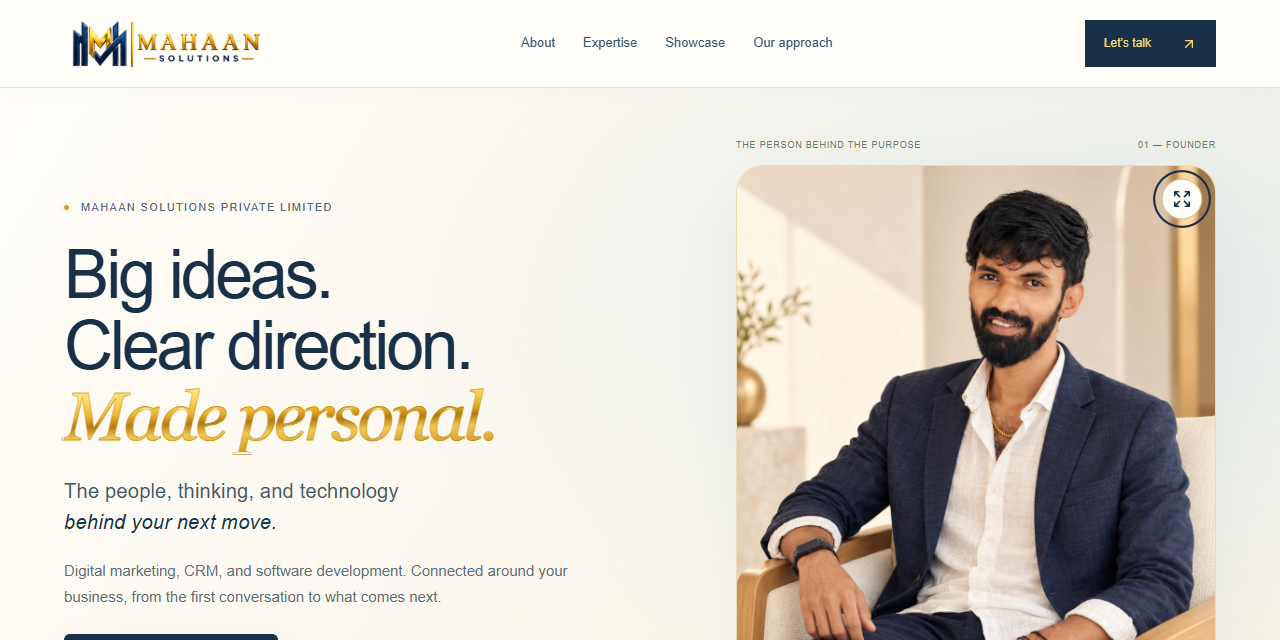
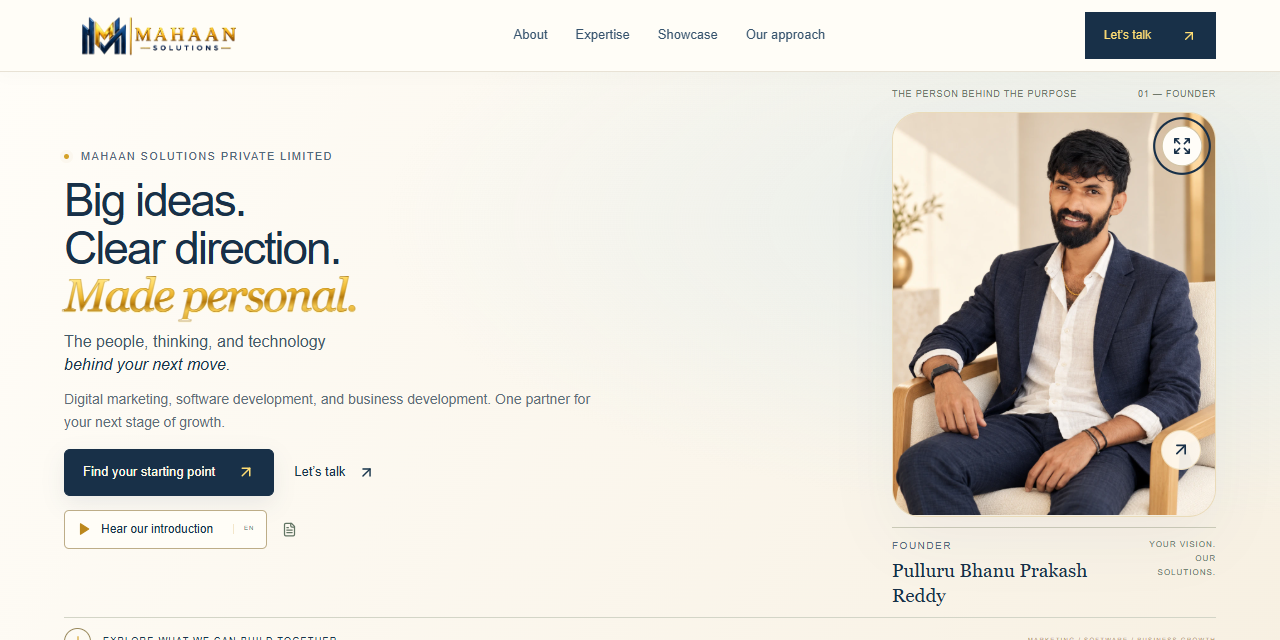
Add business development service and fit homepage to short laptop screens

diff --git a/src/components/ServicesExperience.tsx b/src/components/ServicesExperience.tsx
@@ -10,4 +10,4 @@ export default function ServicesExperience(){const [category,setCategory]=useSta
 const voice=useFounderVoice();useEffect(()=>{voice.selectScene(active as FounderScene)},[active,voice.selectScene]);
 useEffect(()=>{let frame=0;const update=()=>{frame=0;const cards=Array.from(root.current?.querySelectorAll<HTMLElement>('.service-card')||[]);const header=document.querySelector('.navigation')?.getBoundingClientRect().height||0;const focus=header+(innerHeight-header)*.5;const nearest=cards.map(card=>{const r=card.getBoundingClientRect();return{card,distance:r.top<=focus&&r.bottom>=focus?0:Math.min(Math.abs(r.top-focus),Math.abs(r.bottom-focus))}}).sort((a,b)=>a.distance-b.distance)[0];const id=nearest?.card.dataset.service;if(id)setActive(id)};const schedule=()=>{if(!frame)frame=requestAnimationFrame(update)};update();window.addEventListener('scroll',schedule,{passive:true});window.addEventListener('resize',schedule);return()=>{cancelAnimationFrame(frame);window.removeEventListener('scroll',schedule);window.removeEventListener('resize',schedule)}},[category]);
 function choose(slug:string){setActive(slug);document.getElementById(`chapter-${slug}`)?.scrollIntoView({behavior:matchMedia('(prefers-reduced-motion:reduce)').matches?'instant':'smooth',block:'center'})}
-return <section className="expertise services-experience section-pad" id="expertise" ref={root}><div className="section-label"><span>02 / OUR SERVICES</span><span>DESIGNED AROUND YOUR BUSINESS</span></div><div className="section-heading"><h2>Three disciplines.<br/><em>Connected by design.</em></h2><p>Get discovered. Connect your relationships.<br/>Build what comes next.</p></div><div className="service-filters" role="group" aria-label="Filter expertise">{['All expertise','Build','Grow'].map(c=><button key={c} aria-pressed={c===category} className={c===category?'active':''} onClick={()=>{setCategory(c);const first=services.find(s=>c==='All expertise'||s.category===c);if(first)setActive(first.slug)}}>{c}{c==='All expertise'&&<span>03</span>}</button>)}</div><div className="services-story-layout"><aside className="solution-console" data-motion={paused?'paused':'running'}><div className="solution-console-heading"><span><i/> YOUR PROJECT, EXPLORED</span><button aria-label={paused?'Resume preview motion':'Pause preview motion'} aria-pressed={paused} onClick={()=>setPaused(!paused)}>{paused?<Play size={13}/>:<Pause size={13}/>}</button></div><div className="solution-stage" onPointerMove={e=>{if(paused||matchMedia('(prefers-reduced-motion:reduce)').matches)return;const r=e.currentTarget.getBoundingClientRect();e.currentTarget.style.setProperty('--tilt-x',`${(e.clientX-r.left-r.width/2)/r.width*10}deg`);e.currentTarget.style.setProperty('--tilt-y',`${-(e.clientY-r.top-r.height/2)/r.height*8}deg`)}} onPointerLeave={e=>{e.currentTarget.style.setProperty('--tilt-x','0deg');e.currentTarget.style.setProperty('--tilt-y','0deg')}}><ServiceJourney key={active} service={active}/></div><div className="solution-console-caption"><span>{current.number} / EXPLORE THE POSSIBILITIES</span><h3>{current.title}</h3><p>{current.short}</p><NarrationButton scene={active as FounderScene} label="Hear the service overview"/></div><div className="solution-index" aria-label="Explore a service">{filtered.map(s=><button key={s.slug} className={active===s.slug?'is-active':''} aria-pressed={active===s.slug} onClick={()=>choose(s.slug)}><span>{s.number}</span><strong>{s.slug==='software-development'?'Software':s.slug==='digital-marketing'?'Marketing':'CRM'}</strong><ArrowUpRight size={13}/></button>)}</div></aside><div className="service-grid service-story-cards">{filtered.map(s=><article key={s.slug} id={`chapter-${s.slug}`} data-service={s.slug} className={`service-card business-service-card ${active===s.slug?'chapter-active':''}`}><div className="service-card-top"><span>0{s.number.replace('0','')} / {s.category.toUpperCase()}</span><ArrowUpRight size={23}/></div><Link className="service-main" href={`/services/${s.slug}`}><h3>{s.title}</h3><p>{s.description}</p></Link><div className="business-problem"><span>THE OPPORTUNITY</span><p>{s.problem}</p></div><ul className="service-deliverables">{s.deliverables.map(d=><li key={d}><Check size={13}/>{d}</li>)}</ul><div className="service-card-bottom"><Link href={`/services/${s.slug}`}>Explore service <ArrowRight size={15}/></Link><a className="chapter-cta" href={`/?service=${s.slug}#contact`} aria-label={`Request ${s.title}`}>Discuss your project <ArrowUpRight size={15}/></a></div></article>)}</div></div><p className="section-note">Visuals are illustrative explorations. Project scope, deliverables, and timelines are agreed around your requirements.</p></section>}
+return <section className="expertise services-experience section-pad" id="expertise" ref={root}><div className="section-label"><span>02 / OUR SERVICES</span><span>DESIGNED AROUND YOUR BUSINESS</span></div><div className="section-heading"><h2>Three disciplines.<br/><em>Connected by design.</em></h2><p>Get discovered. Find your next opportunity.<br/>Build what comes next.</p></div><div className="service-filters" role="group" aria-label="Filter expertise">{['All expertise','Build','Grow'].map(c=><button key={c} aria-pressed={c===category} className={c===category?'active':''} onClick={()=>{setCategory(c);const first=services.find(s=>c==='All expertise'||s.category===c);if(first)setActive(first.slug)}}>{c}{c==='All expertise'&&<span>03</span>}</button>)}</div><div className="services-story-layout"><aside className="solution-console" data-motion={paused?'paused':'running'}><div className="solution-console-heading"><span><i/> YOUR PROJECT, EXPLORED</span><button aria-label={paused?'Resume preview motion':'Pause preview motion'} aria-pressed={paused} onClick={()=>setPaused(!paused)}>{paused?<Play size={13}/>:<Pause size={13}/>}</button></div><div className="solution-stage" onPointerMove={e=>{if(paused||matchMedia('(prefers-reduced-motion:reduce)').matches)return;const r=e.currentTarget.getBoundingClientRect();e.currentTarget.style.setProperty('--tilt-x',`${(e.clientX-r.left-r.width/2)/r.width*10}deg`);e.currentTarget.style.setProperty('--tilt-y',`${-(e.clientY-r.top-r.height/2)/r.height*8}deg`)}} onPointerLeave={e=>{e.currentTarget.style.setProperty('--tilt-x','0deg');e.currentTarget.style.setProperty('--tilt-y','0deg')}}><ServiceJourney key={active} service={active}/></div><div className="solution-console-caption"><span>{current.number} / EXPLORE THE POSSIBILITIES</span><h3>{current.title}</h3><p>{current.short}</p><NarrationButton scene={active as FounderScene} label="Hear the service overview"/></div><div className="solution-index" aria-label="Explore a service">{filtered.map(s=><button key={s.slug} className={active===s.slug?'is-active':''} aria-pressed={active===s.slug} onClick={()=>choose(s.slug)}><span>{s.number}</span><strong>{s.slug==='software-development'?'Software':s.slug==='digital-marketing'?'Marketing':'Business'}</strong><ArrowUpRight size={13}/></button>)}</div></aside><div className="service-grid service-story-cards">{filtered.map(s=><article key={s.slug} id={`chapter-${s.slug}`} data-service={s.slug} className={`service-card business-service-card ${active===s.slug?'chapter-active':''}`}><div className="service-card-top"><span>0{s.number.replace('0','')} / {s.category.toUpperCase()}</span><ArrowUpRight size={23}/></div><Link className="service-main" href={`/services/${s.slug}`}><h3>{s.title}</h3><p>{s.description}</p></Link><div className="business-problem"><span>THE OPPORTUNITY</span><p>{s.problem}</p></div><ul className="service-deliverables">{s.deliverables.map(d=><li key={d}><Check size={13}/>{d}</li>)}</ul><div className="service-card-bottom"><Link href={`/services/${s.slug}`}>Explore service <ArrowRight size={15}/></Link><a className="chapter-cta" href={`/?service=${s.slug}#contact`} aria-label={`Request ${s.title}`}>Discuss your project <ArrowUpRight size={15}/></a></div></article>)}</div></div><p className="section-note">Visuals are illustrative explorations. Project scope, deliverables, and timelines are agreed around your requirements.</p></section>}

diff --git a/src/styles/responsive-layout.css b/src/styles/responsive-layout.css
@@ -6,3 +6,33 @@
 @media(max-width:760px){:root{--page-gutter:20px;--nav-height:78px}.navigation{height:78px;padding-inline:20px;gap:12px}.brand-logo{width:170px;height:60px}.editorial-hero{display:flex;flex-direction:column;padding:28px 20px 24px;gap:28px}.editorial-hero h1{font-size:clamp(40px,11.5vw,62px);line-height:1.06;letter-spacing:-.045em;margin:18px 0}.home-hero .eyebrow{font-size:10px;letter-spacing:.9px}.home-hero-statement{font-size:18px;line-height:1.5}.home-hero-description{font-size:15px;margin:16px 0 22px}.home-hero-actions{gap:14px;flex-wrap:wrap}.home-hero-actions .button{font-size:13px;gap:16px}.hero-founder-control{margin-top:20px}.hero-founder-control>span{font-size:10px}.founder-editorial{width:100%;max-width:440px;align-self:center;justify-self:center}.portrait-heading{font-size:8px}.portrait-credit strong{font-size:21px}.portrait-credit>span{display:none}.portrait-credit small{font-size:9px}.editorial-hero .home-hero-baseline{width:100%;padding-top:16px;font-size:9px}.editorial-hero .home-hero-baseline>span{display:none}.section-pad,.faq-section{padding:42px 20px;--section-inset:42px}.section-label{font-size:9px;letter-spacing:.8px;margin-bottom:24px}.section-label>span:last-child{font-size:8px}.section-heading h2,.company-intro h2,.principles-heading h2,.faq-section h2{font-size:clamp(34px,9vw,44px);letter-spacing:-1.5px}.section-heading p{font-size:14px}.company-intro-grid{grid-template-columns:1fr;gap:24px}.company-promise strong{font-size:56px}.company-facts strong{font-size:14px}.company-facts span{font-size:9px}.journey-explorer{display:block;padding:22px 18px}.journey-canvas{height:175px}.journey-title h4{font-size:25px}.journey-route button{font-size:11px}.journey-artifact{font-size:12px;max-width:100%;text-align:center}.journey-detail{min-height:105px}.journey-next{font-size:13px;min-height:44px}.solution-console-heading>span{font-size:9px;letter-spacing:1px}.solution-console-heading button{min-height:32px;min-width:32px}.solution-console-caption{padding:20px 18px}.solution-console-caption h3{font-size:24px}.solution-console-caption p{display:block;font-size:14px}.solution-index>button{min-height:44px;padding:10px 6px}.solution-index>button>strong{font-size:11px}.business-service-card{padding:24px 20px}.business-service-card h3{font-size:28px;line-height:1.2}.business-service-card .service-deliverables li{font-size:12px}.service-card-top>span{font-size:9px}.project-info h3{font-size:20px}.project-info>div>span{font-size:10px}.process-tabs strong{font-size:15px}.process-tabs button>span{font-size:11px}.process-panel h3{font-size:25px}.process-panel p{font-size:14px}.principle-grid{grid-template-columns:1fr}.principle-grid h3{font-size:25px}.principle-grid p{font-size:14px}.faq-item button{font-size:16px;gap:15px}.faq-item p{font-size:14px}.contact-layout{grid-template-columns:1fr;gap:28px}.contact h2{font-size:clamp(40px,11vw,58px)}.contact-arrow{display:none}.contact-copy>p{font-size:14px}.direct-contact>a{font-size:13px}.enquiry-form{padding:22px 18px}.form-grid{grid-template-columns:1fr;gap:0}.form-field input,.form-field select,.form-field textarea{font-size:16px}.form-field{margin-bottom:20px}.company-finale{padding:42px 20px 0}.finale-orb{position:relative;left:auto;top:auto;width:160px;height:160px;margin:0 auto 50px}.finale-orb svg{width:60px;height:60px}.company-finale-copy{margin-left:0}.company-finale h2{font-size:clamp(39px,10vw,58px)}.company-finale-copy>p{font-size:14px}.company-finale-actions{gap:20px}.company-finale-actions>a:last-child{font-size:14px}.company-finale-label{font-size:9px;margin-top:36px;gap:16px}footer{padding:32px 20px 90px}.footer-bottom{font-size:10px}.footer-top p{font-size:20px}.voice-tour-dock{right:84px;left:12px;max-width:none;gap:8px}.voice-tour-dock strong{font-size:10px}.voice-tour-dock small{font-size:8px}.voice-tour-dock button{min-width:28px}}
 @media(max-width:420px){.nav-cta{display:none}.brand-logo{width:165px}.navigation{justify-content:space-between}.home-hero-actions{align-items:stretch;gap:10px 18px}.home-secondary-cta{font-size:13px}.home-hero-actions .button{gap:14px;padding-inline:16px}.portrait-credit strong{font-size:19px}.narration-button{gap:7px}.voice-language{margin-left:4px;padding-left:7px}.company-finale h2{font-size:clamp(35px,10vw,43px)}}
 @media(max-width:1024px){.company-promise strong{font-size:clamp(40px,5.5vw,56px)}}@media(max-width:760px){.company-promise strong{font-size:clamp(36px,10vw,56px);letter-spacing:-1px}}
+
+/* Keep introduction and actions visible on short laptop displays. */
+@media(min-width:1025px) and (max-height:850px){
+  :root{--nav-height:72px}
+  .navigation{height:72px}
+  .brand-logo{height:58px;width:190px}
+  .editorial-hero{padding-top:20px;padding-bottom:16px;row-gap:12px;column-gap:40px;align-items:center}
+  .editorial-hero h1{font-size:clamp(46px,4.2vw,60px);line-height:1.03;margin:14px 0}
+  .home-hero-statement{font-size:17px;line-height:1.4}
+  .home-hero-description{font-size:14px;line-height:1.6;margin:12px 0 16px;max-width:530px}
+  .home-hero-actions .button{min-height:44px;padding:12px 18px}
+  .hero-founder-control{margin-top:14px}
+  .hero-founder-control .narration-button{padding:9px 12px}
+  .founder-editorial{max-width:clamp(280px,calc((100svh - 235px)*.8),400px)}
+  .portrait-heading{margin-bottom:10px}
+  .portrait-credit{margin-top:10px;padding-top:10px}
+  .portrait-credit strong{font-size:19px}
+  .editorial-hero .home-hero-baseline{padding-top:10px}
+}
+@media(min-width:1025px) and (max-height:650px){
+  .editorial-hero{padding-top:16px;padding-bottom:12px;row-gap:8px}
+  .editorial-hero h1{font-size:46px;margin:12px 0}
+  .home-hero-statement{font-size:16px}
+  .hero-founder-control>span{display:none}
+}
+@media(min-width:1025px) and (max-height:850px){
+  .founder-editorial{justify-self:center}
+  .portrait-credit>span{display:none}
+  .portrait-credit strong{font-size:17px}
+}

diff --git a/src/components/CompanySections.tsx b/src/components/CompanySections.tsx
@@ -3,6 +3,6 @@
 
 import {ArrowUpRight,ArrowRight,Target,Layers3,Compass,MessageCircle} from 'lucide-react';
 
-export function CompanyIntroduction(){return <section className="company-intro section-pad section-light" id="about"><div className="section-label"><span>01 / THE COMPANY</span><span>ONE VISION. CONNECTED POSSIBILITIES.</span></div><div className="company-intro-grid"><div><span className="eyebrow">MAHAAN SOLUTIONS PRIVATE LIMITED</span><h2>Built around<br/><em>your next move.</em></h2><p className="company-lead">A digital presence. A better system.<br/>A new product. Start with your vision.</p><p className="company-description">Mahaan Solutions brings digital marketing, CRM development and maintenance, and software development into one conversation. Tell us where you want to go. We’ll explore the right scope with you.</p><a href="#expertise" className="underlined-link">Discover our services <ArrowUpRight size={19}/></a></div><div className="company-system"><div className="company-promise"><span>YOUR VISION.</span><strong>OUR<br/>SOLUTIONS.</strong><p>One conversation. Three connected disciplines.</p></div><div className="company-facts"><div><span>OUR FOUNDER</span><strong>Pulluru Bhanu Prakash Reddy</strong></div><div><span>OUR FOCUS</span><strong>Marketing · CRM · Software</strong></div></div></div></div></section>}
+export function CompanyIntroduction(){return <section className="company-intro section-pad section-light" id="about"><div className="section-label"><span>01 / THE COMPANY</span><span>ONE VISION. CONNECTED POSSIBILITIES.</span></div><div className="company-intro-grid"><div><span className="eyebrow">MAHAAN SOLUTIONS PRIVATE LIMITED</span><h2>Built around<br/><em>your next move.</em></h2><p className="company-lead">A digital presence. A better system.<br/>A new product. Start with your vision.</p><p className="company-description">Mahaan Solutions brings digital marketing, software development, and business development into one conversation. Tell us where you want to go. We’ll explore the right scope with you.</p><a href="#expertise" className="underlined-link">Discover our services <ArrowUpRight size={19}/></a></div><div className="company-system"><div className="company-promise"><span>YOUR VISION.</span><strong>OUR<br/>SOLUTIONS.</strong><p>One conversation. Three connected disciplines.</p></div><div className="company-facts"><div><span>OUR FOUNDER</span><strong>Pulluru Bhanu Prakash Reddy</strong></div><div><span>OUR FOCUS</span><strong>Marketing · Software · Business growth</strong></div></div></div></div></section>}
 export function CompanyPrinciples(){const principles=[{Icon:Compass,title:'Start with clarity.',text:'Your audience, your priorities, and the problem worth solving come first.'},{Icon:Layers3,title:'Connect the parts.',text:'Think about the brand, the experience, and the systems behind it together.'},{Icon:Target,title:'Make the next step clear.',text:'Agree a focused scope, practical deliverables, and a considered way forward.'}];return <section className="company-principles section-pad" id="founder"><div className="section-label"><span>05 / THE MAHAAN PERSPECTIVE</span><span>PURPOSE IN EVERY DETAIL</span></div><div className="principles-heading"><h2>Good thinking.<br/><em>Better possibilities.</em></h2><div className="company-identity-block"><span>LED BY</span><strong>Pulluru Bhanu Prakash Reddy</strong><small>Founder · Mahaan Solutions Private Limited</small></div></div><div className="principle-grid">{principles.map(({Icon,title,text},i)=><article key={title}><div><Icon size={29} strokeWidth={1}/><span>0{i+1}</span></div><h3>{title}</h3><p>{text}</p></article>)}</div><p className="section-note">A proposed project approach, adapted to your needs and agreed scope.</p></section>}
 export function CompanyClosing(){return <section className="company-finale" id="founder-finale"><a className="finale-orb" href="#contact" aria-label="Start a conversation"><ArrowUpRight size={100} strokeWidth={.7}/><span>LET’S BEGIN</span></a><div className="company-finale-copy"><span className="eyebrow">THE NEXT MOVE IS YOURS</span><h2>Your idea.<br/><em>Our next</em><br/>conversation.</h2><p>Your vision deserves a conversation.<br/>Let’s start with what you have in mind.</p><div className="company-finale-actions"><a className="button button-gold" href="#contact">Start your project <ArrowUpRight size={18}/></a><a href="https://wa.me/919959929328" target="_blank" rel="noopener noreferrer"><MessageCircle size={18}/> Talk on WhatsApp <ArrowRight size={16}/></a></div></div><div className="company-finale-label"><span>MAHAAN SOLUTIONS PRIVATE LIMITED</span><span>YOUR VISION. OUR SOLUTIONS.</span></div></section>}

diff --git a/src/components/HomeHero.tsx b/src/components/HomeHero.tsx
@@ -2,4 +2,4 @@
 import {ArrowUpRight,ArrowDown} from 'lucide-react';
 import {NarrationButton} from './FounderVoice';
 import PortraitViewer from './PortraitViewer';
-export default function HomeHero(){return <section className="hero home-hero editorial-hero" id="home"><div className="home-hero-copy"><div className="eyebrow"><span className="live-dot"/> MAHAAN SOLUTIONS PRIVATE LIMITED</div><h1>Big ideas.<br/>Clear direction.<br/><span>Made personal.</span></h1><p className="home-hero-statement">The people, thinking, and technology<br/><em>behind your next move.</em></p><p className="home-hero-description">Digital marketing, CRM, and software development. Connected around your business, from the first conversation to what comes next.</p><div className="home-hero-actions"><a className="button button-gold" href="#expertise">Find your starting point <ArrowUpRight size={18}/></a><a href="#contact" className="home-secondary-cta">Let’s talk <ArrowUpRight size={17}/></a></div><div className="hero-founder-control"><NarrationButton scene="intro" label="Hear our introduction"/><span>A personal introduction to Mahaan Solutions</span></div></div><div className="founder-editorial"><div className="portrait-heading"><span>THE PERSON BEHIND THE PURPOSE</span><span>01 — FOUNDER</span></div><div className="portrait-gallery studio-gallery"><PortraitViewer/><img src="/images/founder/studio-portrait-v2.webp" srcSet="/images/founder/studio-portrait-v2-small.webp 640w, /images/founder/studio-portrait-v2.webp 1024w" sizes="(max-width:760px) 88vw, 42vw" alt="AI-assisted editorial portrait of Pulluru Bhanu Prakash Reddy, founder of Mahaan Solutions" fetchPriority="high"/><a className="portrait-connect" href="#contact" aria-label="Talk to the founder"><ArrowUpRight size={23}/></a></div><div className="portrait-credit"><div><small>FOUNDER</small><strong>Pulluru Bhanu Prakash Reddy</strong></div><span>YOUR VISION.<br/>OUR SOLUTIONS.</span></div></div><div className="home-hero-baseline"><a href="#expertise"><span><ArrowDown size={14}/></span> EXPLORE WHAT WE CAN BUILD TOGETHER</a><span>MARKETING / CRM / SOFTWARE</span></div></section>}
+export default function HomeHero(){return <section className="hero home-hero editorial-hero" id="home"><div className="home-hero-copy"><div className="eyebrow"><span className="live-dot"/> MAHAAN SOLUTIONS PRIVATE LIMITED</div><h1>Big ideas.<br/>Clear direction.<br/><span>Made personal.</span></h1><p className="home-hero-statement">The people, thinking, and technology<br/><em>behind your next move.</em></p><p className="home-hero-description">Digital marketing, software development, and business development. One partner for your next stage of growth.</p><div className="home-hero-actions"><a className="button button-gold" href="#expertise">Find your starting point <ArrowUpRight size={18}/></a><a href="#contact" className="home-secondary-cta">Let’s talk <ArrowUpRight size={17}/></a></div><div className="hero-founder-control"><NarrationButton scene="intro" label="Hear our introduction"/><span>A personal introduction to Mahaan Solutions</span></div></div><div className="founder-editorial"><div className="portrait-heading"><span>THE PERSON BEHIND THE PURPOSE</span><span>01 — FOUNDER</span></div><div className="portrait-gallery studio-gallery"><PortraitViewer/><img src="/images/founder/studio-portrait-v2.webp" srcSet="/images/founder/studio-portrait-v2-small.webp 640w, /images/founder/studio-portrait-v2.webp 1024w" sizes="(max-width:760px) 88vw, 42vw" alt="AI-assisted editorial portrait of Pulluru Bhanu Prakash Reddy, founder of Mahaan Solutions" fetchPriority="high"/><a className="portrait-connect" href="#contact" aria-label="Talk to the founder"><ArrowUpRight size={23}/></a></div><div className="portrait-credit"><div><small>FOUNDER</small><strong>Pulluru Bhanu Prakash Reddy</strong></div><span>YOUR VISION.<br/>OUR SOLUTIONS.</span></div></div><div className="home-hero-baseline"><a href="#expertise"><span><ArrowDown size={14}/></span> EXPLORE WHAT WE CAN BUILD TOGETHER</a><span>MARKETING / SOFTWARE / BUSINESS GROWTH</span></div></section>}

diff --git a/src/components/ServiceJourney.tsx b/src/components/ServiceJourney.tsx
@@ -2,9 +2,9 @@
 import {useState} from 'react';
 import {ArrowRight,ArrowUpRight,Check,Compass,Layers3,Send} from 'lucide-react';
 const journeys:Record<string,{label:string;stages:string[];details:string[];artifact:string[]}>= {
- 'software-development':{label:'From idea to experience',stages:['Define','Build','Launch'],details:['Clarify the problem, the users, and the product you need.','Connect the interface, logic, and integrations around your requirements.','Review, test, and prepare an agreed handover.'],artifact:['A focused product brief','A working product experience','A considered launch plan']},
+ 'software-development':{label:'From idea to experience',stages:['Define','Build','Launch'],details:['Clarify the problem, the users, and the product you need.','Build the application or CRM, connecting interfaces, customer data, and agreed workflows.','Review, test, and prepare a handover with an agreed software or CRM maintenance scope.'],artifact:['A focused product brief','A working product experience','A considered launch plan']},
  'digital-marketing':{label:'From attention to connection',stages:['Discover','Create','Connect'],details:['Understand your audience and where your business fits.','Shape the message, content, and campaign direction.','Bring the agreed campaign to your audience and review what follows.'],artifact:['An audience & channel direction','A coherent campaign concept','A connected digital presence']},
- 'crm-development-and-maintenance':{label:'From contacts to clarity',stages:['Understand','Connect','Support'],details:['Map your team’s customer journey and current working process.','Organize customer information and connect agreed workflows.','Maintain the system around the team and its changing needs.'],artifact:['A clear customer journey','A shared relationship system','An agreed maintenance scope']}
+ 'business-development':{label:'From opportunity to action',stages:['Explore','Position','Grow'],details:['Map target customers, market gaps, and the opportunities worth pursuing.','Refine your offer, outreach message, and lead qualification process.','Plan sales follow-ups, potential partnerships, and a regular review of agreed growth indicators.'],artifact:['A focused opportunity map','An offer & outreach plan','A practical growth roadmap']}
 };
 const icons=[Compass,Layers3,Send];
 export default function ServiceJourney({service}:{service:string}){const [step,setStep]=useState(0);const j=journeys[service]||journeys['software-development'];const Icon=icons[step];return <div className="journey-explorer" key={service}><div className="journey-title"><small>EXPLORE THE APPROACH</small><h4>{j.label}</h4></div><div className="journey-route" aria-label="Workflow stages">{j.stages.map((s,i)=><button key={s} className={i===step?'selected':''} aria-pressed={i===step} onClick={()=>setStep(i)}><span>{i<step?<Check size={14}/>:String(i+1).padStart(2,'0')}</span>{s}</button>)}</div><div className="journey-canvas"><div className="journey-rings" aria-hidden="true"><i/><i/></div><div className="journey-token" key={`${service}-${step}`}><Icon size={42} strokeWidth={1}/></div><span className="journey-artifact" key={j.artifact[step]}>{j.artifact[step]}</span></div><div className="journey-detail" aria-live="polite"><span>0{step+1} / {j.stages[step].toUpperCase()}</span><p>{j.details[step]}</p></div><button className="journey-next" onClick={()=>setStep((step+1)%3)}>{step===2?'Explore again':'See the next step'}<ArrowRight size={17}/></button></div>}

diff --git a/src/data/company.ts b/src/data/company.ts
@@ -4,9 +4,9 @@ export const company = {
   phone: '+91 99599 29328', phoneUri: '+919959929328', founderName: 'PULLURU BHANU PRAKASH REDDY',
 };
 export const services = [
-  { slug:'software-development', number:'01', title:'Software development', short:'Purpose-built technology. New possibilities.', category:'Build', icon:'code', description:'Discuss software built around the way your business and customers work, from a new digital product to a better everyday workflow.', problem:'Turn business requirements into a clear, usable software experience.', deliverables:['Requirements & user journeys','Interface and architecture planning','Software implementation','Testing, launch & handover'], color:'#d6b477' },
+  { slug:'software-development', number:'01', title:'Software development', short:'Purpose-built technology. New possibilities.', category:'Build', icon:'code', description:'Discuss software built around the way your business and customers work, from a new digital product to a better everyday workflow, including custom CRM development and maintenance.', problem:'Turn business requirements into a clear, usable software experience.', deliverables:['Requirements & user journeys','Interface and architecture planning','Software & custom CRM development','Integrations, testing & launch','CRM maintenance & ongoing improvements'], color:'#d6b477' },
   { slug:'digital-marketing', number:'02', title:'Digital marketing', short:'Make your next impression a lasting one.', category:'Grow', icon:'orbit', description:'Discuss a focused digital presence, from campaign ideas to the content that connects them.', problem:'Bring clarity to how your business is discovered and understood online.', deliverables:['Channel & audience planning','Campaign creative direction','Content calendar','Measurement framework'], color:'#a9bda8' },
-  { slug:'crm-development-and-maintenance', number:'03', title:'CRM development & maintenance', short:'Your relationships. Connected and supported.', category:'Build', icon:'workflow', description:'Develop and maintain a CRM around your customer relationships, team processes, and evolving business needs.', problem:'Give customer information a shared home and keep essential workflows running as your business evolves.', deliverables:['CRM requirements & workflow mapping','Custom CRM development','Integration planning','Maintenance & ongoing improvements'], color:'#8aaecb' },
+  { slug:'business-development', number:'03', title:'Business development', short:'Clear opportunities. A practical path to growth.', category:'Grow', icon:'workflow', description:'Identify the right customers, sharpen your offer, and build a practical plan for new business opportunities.', problem:'Turn scattered growth ideas into a focused customer acquisition and sales process your team can act on.', deliverables:['Market & customer opportunity mapping','Offer positioning & outreach planning','Lead qualification & sales pipeline design','Partnership opportunities & growth reviews'], color:'#8aaecb' },
 ];
 export const steps = [
   {name:'Discover',text:'We start with a conversation. Your vision, your audience, and the challenge worth solving.'},

diff --git a/src/data/founder-scenes.ts b/src/data/founder-scenes.ts
@@ -1,13 +1,13 @@
 /** Add reviewed Google Flow exports here. Empty sources intentionally use the poster + optional browser narration. */
 export const founderScenes = {
   intro: { title: 'Meet the founder', poster: '/images/founder/guide.webp', video: '', captions: '',
-    script: "Hello, I'm Pulluru Bhanu Prakash Reddy, founder of Mahaan Solutions Private Limited. We bring digital marketing, CRM development and maintenance, and software development together around your vision. If you’d like to explore our services, scroll down and take a look." },
+    script: "Hello, I'm Pulluru Bhanu Prakash Reddy, founder of Mahaan Solutions Private Limited. We bring digital marketing, software development, and business development together around your vision. If you’d like to explore our services, scroll down and take a look." },
   'software-development': { title: 'Software development', poster: '/images/founder/guide.webp', video: '', captions: '',
-    script: 'Have an idea for a digital product? Let’s build software around your business.' },
+    script: 'Have an idea for a digital product? Let’s build software around your business, including custom CRM development and maintenance.' },
   'digital-marketing': { title: 'Digital marketing', poster: '/images/founder/guide.webp', video: '', captions: '',
     script: 'Let’s make your business easier to discover, with digital marketing shaped around your audience.' },
-  'crm-development-and-maintenance': { title: 'CRM development & maintenance', poster: '/images/founder/guide.webp', video: '', captions: '',
-    script: 'Let’s connect your customer information with CRM development and maintenance that supports your team.' },
+  'business-development': { title: 'Business development', poster: '/images/founder/guide.webp', video: '', captions: '',
+    script: 'Let’s identify your next growth opportunity, refine your offer, and plan customer outreach and a clearer sales process.' },
   closing: { title: 'Your next chapter', poster: '/images/founder/closing.webp', video: '', captions: '',
     script: 'Your next chapter starts with a conversation. Tell me what you want to build. Your vision. Our solutions. Let’s explore the possibilities together.' },
 };

diff --git a/tests/validation.test.ts b/tests/validation.test.ts
@@ -2,3 +2,7 @@ import {describe,it,expect} from 'vitest';
 import {enquirySchema,leadUpdateSchema} from '../src/lib/validation';
 const valid={name:'Test Person',email:'test@example.com',phone:'+91 98765 43210',service:'software-development',description:'A responsive company website with service pages.',preferredContact:'email',consent:true,website:''};
 describe('Enquiry trust boundary',()=>{it('accepts a complete consented brief',()=>expect(enquirySchema.safeParse(valid).success).toBe(true));it.each([{consent:false},{email:'invalid'},{phone:'+1'},{phone:'1234567890123456'},{service:'unlisted-service'},{description:'short'},{website:'spam.example'}])('rejects invalid or unsolicited input %j',override=>expect(enquirySchema.safeParse({...valid,...override}).success).toBe(false));it('limits payload fields',()=>expect(enquirySchema.safeParse({...valid,description:'a'.repeat(5001)}).success).toBe(false));it('restricts lead status and notes',()=>{expect(leadUpdateSchema.safeParse({status:'QUALIFIED',notes:'Discuss scope'}).success).toBe(true);expect(leadUpdateSchema.safeParse({status:'ADMIN',notes:''}).success).toBe(false)})});
+it('accepts business development enquiries and retires the standalone CRM option',()=>{
+ expect(enquirySchema.safeParse({...valid,service:'business-development'}).success).toBe(true);
+ expect(enquirySchema.safeParse({...valid,service:'crm-development-and-maintenance'}).success).toBe(false);
+});

diff --git a/next.config.ts b/next.config.ts
@@ -1,4 +1,4 @@
 import type { NextConfig } from 'next';
 const isPreview=process.env.SITES_STATIC_PREVIEW==='true';
-const config: NextConfig = { poweredByHeader: false, ...(isPreview?{output:'export' as const,distDir:'.next-export',trailingSlash:true}:{}), ...(!isPreview?{async headers() { return [{ source: '/(.*)', headers: [{key:'X-Content-Type-Options',value:'nosniff'},{key:'Referrer-Policy',value:'strict-origin-when-cross-origin'},{key:'X-Frame-Options',value:'DENY'}] }]; }}:{}) };
+const config: NextConfig = { poweredByHeader: false, ...(isPreview?{output:'export' as const,distDir:'.next-export',trailingSlash:true}:{}), ...(!isPreview?{async redirects(){return [{source:'/services/crm-development-and-maintenance',destination:'/services/software-development',permanent:true}]},async headers() { return [{ source: '/(.*)', headers: [{key:'X-Content-Type-Options',value:'nosniff'},{key:'Referrer-Policy',value:'strict-origin-when-cross-origin'},{key:'X-Frame-Options',value:'DENY'}] }]; }}:{}) };
 export default config;

diff --git a/docs/BUSINESS-GROWTH-UPDATE.md b/docs/BUSINESS-GROWTH-UPDATE.md
@@ -1,0 +1,7 @@
+# Business development and compact homepage update
+
+The three services are Software Development, Digital Marketing and Business Development. Software includes CRM development, integrations and maintenance. Business Development covers opportunity mapping, positioning, lead qualification, sales pipeline planning, partnerships and growth reviews. Shared service data drives the cards, detail pages, sitemap and enquiry options; narration and service journeys use the same service names. The old standalone CRM URL redirects permanently to Software Development on the full Next.js deployment.
+
+At desktop widths above 1024px and heights up to 850px, the hero uses a smaller header, tighter text spacing and a bounded portrait. Primary actions and narration controls are visible at 1280 × 632 and 1366 × 650 without cropping the image. Mobile keeps its natural stacked layout.
+
+Validation: 13 unit tests; static preview build; full Next.js build using the existing generated Prisma client; business service/filter/journey/form checks; 12 responsive sizes; sticky navigation checks. Prisma regeneration initially encountered a Windows DLL lock in the running development environment; the production compilation succeeded using the existing generated client. No schema changed.
